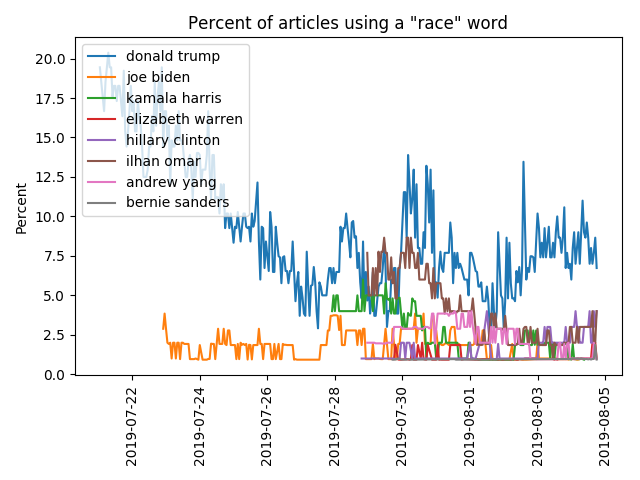
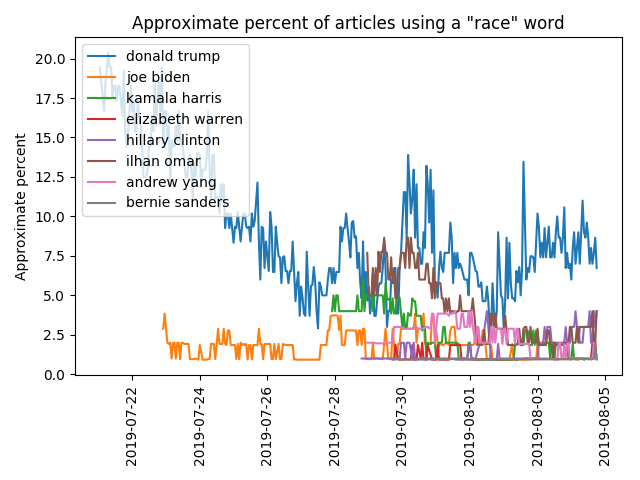
ok

Changed region(s): [[0.1875, 0.0312, 0.9062, 0.0625], [0.0, 0.2812, 0.0625, 0.5938]]

diff --git a/pygraphs/graph_multi_keyword_study.py b/pygraphs/graph_multi_keyword_study.py
@@ -117,8 +117,8 @@ if __name__ == "__main__":
 						pass
 		plt.plot(dates, row_percents, label=query_filter.replace('%20', ' '))
 	plt.legend(loc='upper left')
-	ax.set_ylabel('Percent')
-	ax.set_title('Percent of articles using a "race" word')
+	ax.set_ylabel('Approximate percent')
+	ax.set_title('Approximate percent of articles using a "race" word')
 	ax.xaxis_date()
 	plt.xticks(rotation=90)
 	fig.tight_layout()
